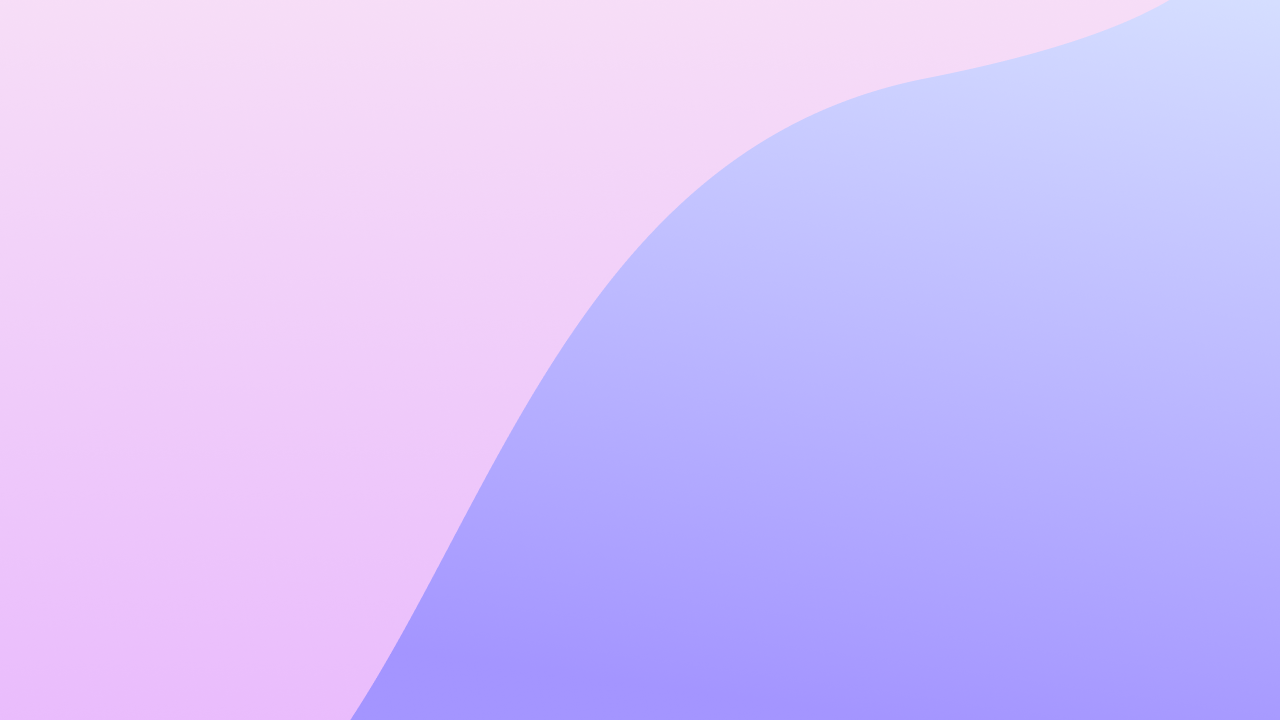
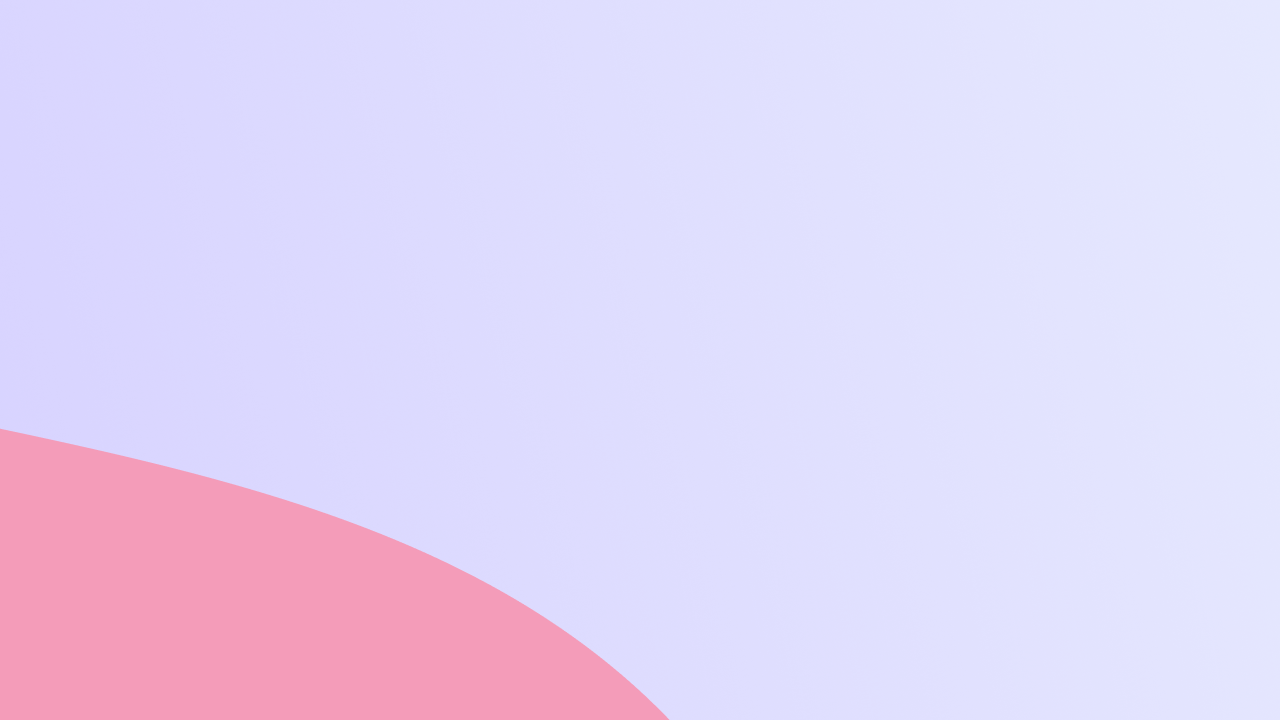
'change'

diff --git a/style.css b/style.css
@@ -20,7 +20,7 @@ body {
       #e5e5f7 8px
     ),
     repeating-linear-gradient(#c3c5f755, #c3c5f7); */
-  background-image: url(ressources/Frame\ 2\ \(21\).png);
+  background-image: url(ressources/bgdash.png);
   background-size: cover;
   max-width: 1300px;
   margin: 40px auto 0;
@@ -59,11 +59,11 @@ body {
   display: flex;
   justify-content: center;
   align-items: center;
-  border: 1px solid rgb(129, 129, 129);
+  border: 1px solid rgb(180, 180, 180);
   background: rgba(255, 255, 255, 0.904);
 }
 .floating-btn img {
-  width: 35px;
+  width: 30px;
 }
 @media screen and (min-width: 950px) {
   .floating-btn {
@@ -122,6 +122,7 @@ h1 span:nth-child(2) {
 }
 .sidenav a:nth-child(2) {
   background: #fff;
+  border-right: 4px solid #9c99f6;
 }
 
 .main-content {
